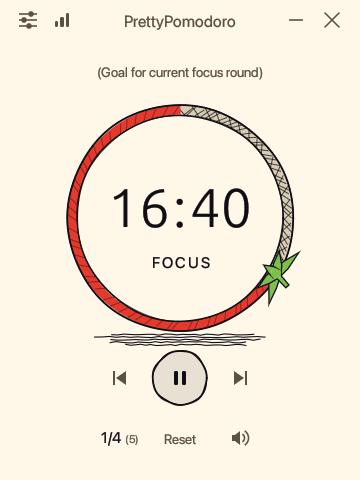
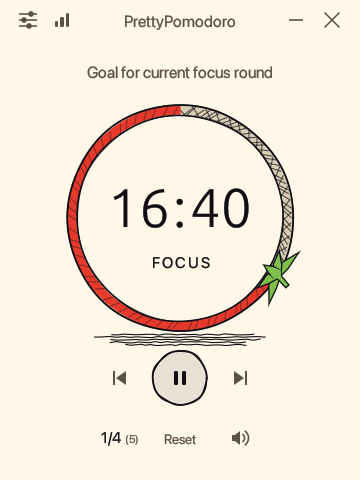
Enlarge the goal text and drop the brackets from its placeholder

Changed region(s): [[0.2444, 0.125, 0.7639, 0.1875]]

diff --git a/docs/index.html b/docs/index.html
@@ -241,7 +241,7 @@ footer p { margin: 0; }
           </g>
           <g font-family="'DM Sans', system-ui, sans-serif" text-anchor="middle" fill="#45504b">
             <text x="180" y="25.500" font-size="16">PrettyPomodoro</text>
-            <text x="180" y="76" font-size="14">(Goal for current focus round)</text>
+            <text x="180" y="76.500" font-size="16">Goal for current focus round</text>
             <text x="180" y="267.500" font-size="16">Focus</text>
             <text x="180" y="443" font-size="14">Reset</text>
             <text x="113" y="443.500" font-size="15" fill="#141413">1/4</text>

diff --git a/src/ui/timer.rs b/src/ui/timer.rs
@@ -242,10 +242,10 @@ pub fn show(ui: &mut Ui, rect: Rect, core: &mut Core, theme: &Theme) {
 /// the ring, that can be typed over. Once the round has finished the goal is
 /// fixed and gets a box on its left to tick it off in.
 fn goal_box(ui: &mut Ui, rect: Rect, core: &mut Core, theme: &Theme) {
-    let row = Rect::from_center_size(pos2(rect.center().x, rect.top() + 72.0), vec2(236.0, 28.0));
+    let row = Rect::from_center_size(pos2(rect.center().x, rect.top() + 72.0), vec2(304.0, 28.0));
     let id = ui.id().with("goal");
     let p = ui.painter().clone();
-    let font = FontId::proportional(14.0);
+    let font = FontId::proportional(16.0);
     // A row of text has more room above its letters than below; nudged up, the
     // letters sit level with the middle of the tick box.
     let lift = vec2(0.0, 1.0);
@@ -258,7 +258,7 @@ fn goal_box(ui: &mut Ui, rect: Rect, core: &mut Core, theme: &Theme) {
         let edit = egui::TextEdit::singleline(&mut core.goal)
             .id(id)
             .frame(false)
-            .hint_text(RichText::new("(Goal for current focus round)").color(theme.text_dim))
+            .hint_text(RichText::new("Goal for current focus round").color(theme.text_dim))
             .font(font)
             .text_color(theme.text)
             .horizontal_align(Align::Center)
